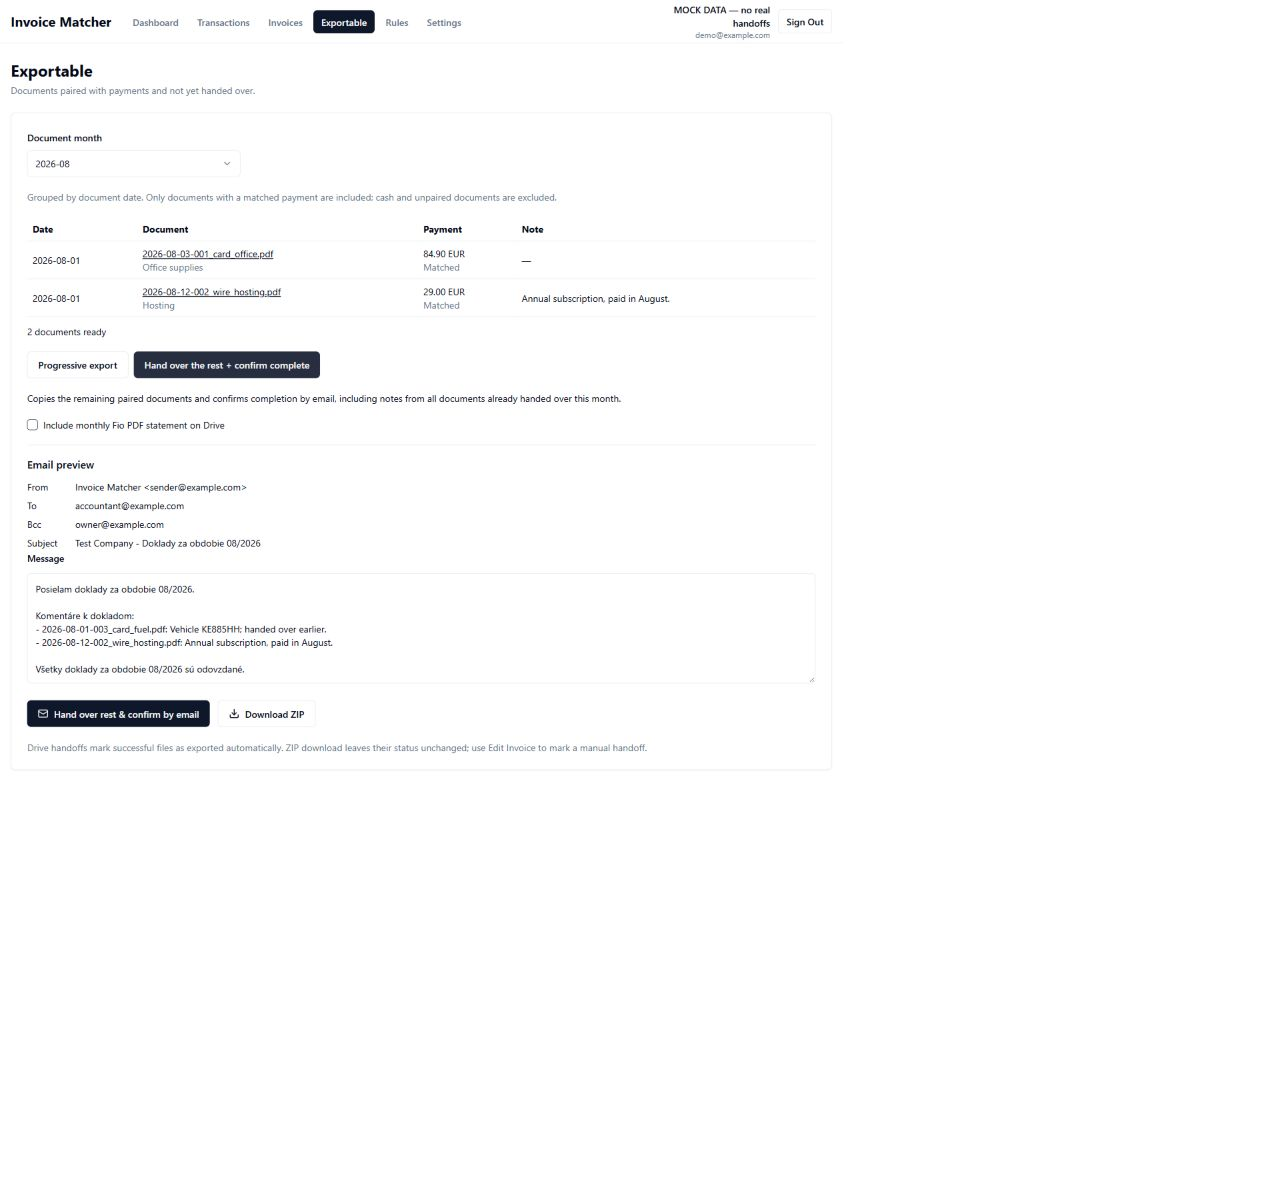
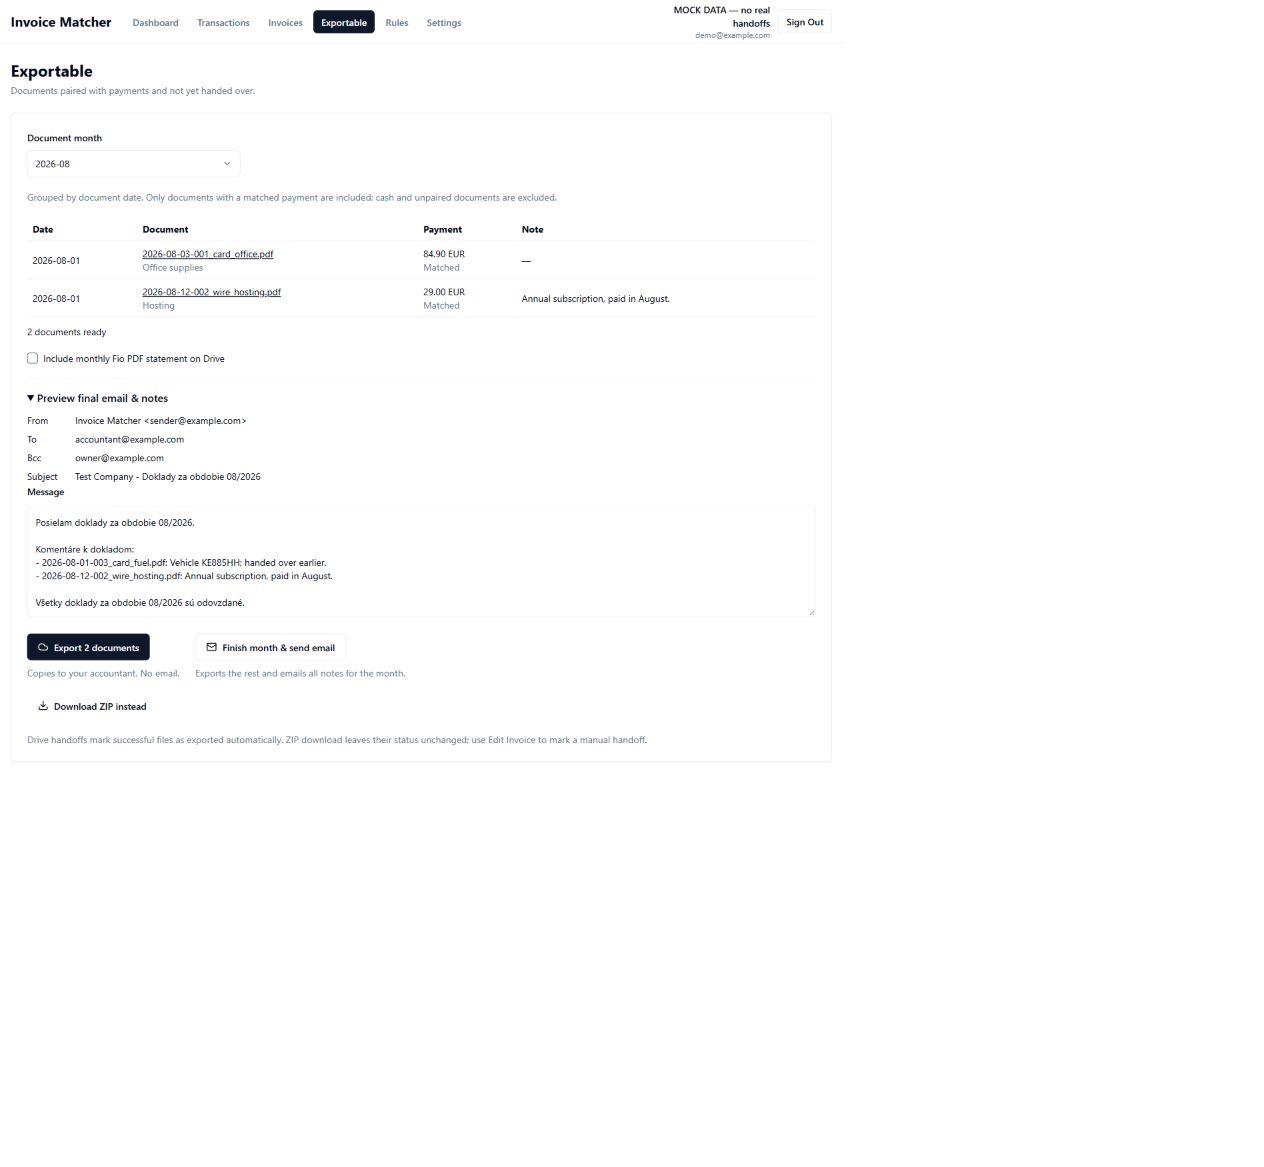
Replace export modes with two direct handoff actions

diff --git a/frontend/src/pages/ExportPage.tsx b/frontend/src/pages/ExportPage.tsx
@@ -24,13 +24,12 @@ export function ExportPage() {
   const { data: appConfig } = useAppConfig()
   const copy = useCopyToGDrive()
   const [month, setMonth] = useState(new URLSearchParams(search).get('month') || '')
-  const [complete, setComplete] = useState(false)
   const [acknowledged, setAcknowledged] = useState(false)
   const [includeStatement, setIncludeStatement] = useState(false)
   const [downloading, setDownloading] = useState(false)
   const [emailBody, setEmailBody] = useState('')
   const { data: documents, isLoading, isError } = useInvoices(month || undefined, 'exportable')
-  const { data: preview, isFetching: previewLoading, isError: previewError } = useAccountantEmailPreview(month || null, complete)
+  const { data: preview, isFetching: previewLoading, isError: previewError } = useAccountantEmailPreview(month || null, true)
   const { data: sender } = useMailjetSenderStatus(settings?.mailjet_sender_email || '', Boolean(appConfig?.mailjet_enabled))
   const busy = copy.isPending || downloading
   const ready = documents?.invoices.filter((invoice) => !invoice.parent_invoice_id) || []
@@ -39,8 +38,8 @@ export function ExportPage() {
 
   useEffect(() => {
     setEmailBody(preview?.body || '')
-  }, [preview?.body, month, complete])
-  useEffect(() => { setAcknowledged(false) }, [month, complete, unresolved])
+  }, [preview?.body, month])
+  useEffect(() => { setAcknowledged(false) }, [month, unresolved])
 
   const refresh = () => {
     for (const key of ['invoices', 'dashboard', 'month-stats', 'accountant-email-preview']) {
@@ -57,15 +56,15 @@ export function ExportPage() {
     throw new Error('Configure your Fio token in Settings to include the monthly statement')
   }
 
-  const handleCopy = async () => {
-    if (!month || !settings?.accountant_folder_id || !preview) return
+  const handleCopy = async (complete: boolean) => {
+    if (!month || !settings?.accountant_folder_id || (complete && !preview)) return
     try {
       const result = await copy.mutateAsync({
         yearMonth: month, folderId: settings.accountant_folder_id, markExported: true,
         includeMonthlyStatement: includeStatement,
         fioToken: includeStatement ? await resolveFioToken() : undefined,
-        sendSummaryEmail: preview.will_send_email,
-        emailBody: preview.will_send_email ? emailBody : undefined,
+        sendSummaryEmail: complete,
+        emailBody: complete ? emailBody : undefined,
         completeMonth: complete, acknowledgeUnmatched: acknowledged,
       })
       const summary = `${result.copied} copied, ${result.skipped} already on Drive.`
@@ -129,19 +128,14 @@ export function ExportPage() {
           </div>
         ) : <p className="text-sm text-muted-foreground">No paired documents waiting for export. Match payments to documents in <Link className="underline" href="/transactions">Transactions</Link>, or select another month.</p>}
         {month && <>
-          <div className="flex flex-wrap gap-2" aria-label="Handoff mode">
-            <Button variant={complete ? 'outline' : 'default'} disabled={busy} aria-pressed={!complete} onClick={() => setComplete(false)}>Progressive export</Button>
-            <Button variant={complete ? 'default' : 'outline'} disabled={busy} aria-pressed={complete} onClick={() => setComplete(true)}>Hand over the rest + confirm complete</Button>
-          </div>
-          <p className="text-sm">{complete ? 'Copies the remaining paired documents and confirms completion by email, including notes from all documents already handed over this month.' : 'Copies ready documents. No email is sent. All notes are summarized in the final email.'}</p>
-          {complete && unresolved > 0 && <div className="space-y-3 rounded-md border p-4">
+          {unresolved > 0 && <div className="space-y-3 rounded-md border p-4">
             <p role="alert" className="text-sm">{unresolved} expense payments in this payment month still have no document. <Link className="underline" href={`/transactions?month=${month}&status=unmatched&type=expense`}>Review payments</Link>.</p>
             <div className="flex items-start gap-2"><Checkbox id="ack-unmatched" checked={acknowledged} disabled={busy} onCheckedChange={(value) => setAcknowledged(value === true)} /><Label htmlFor="ack-unmatched" className="text-sm font-normal">I reviewed these payments and confirm the handoff is complete.</Label></div>
           </div>}
           <div className="flex items-center gap-2"><Checkbox id="include-statement" checked={includeStatement} disabled={busy} onCheckedChange={(value) => setIncludeStatement(value === true)} /><Label htmlFor="include-statement" className="text-sm font-normal">Include monthly Fio PDF statement on Drive</Label></div>
           {previewLoading ? <p role="status" className="text-sm">Preparing handoff…</p> : previewError ? <p role="alert" className="text-destructive">Could not prepare the handoff. Try again.</p> : preview && <>
-            {preview.will_send_email && <section className="space-y-3 border-t pt-4" aria-labelledby="email-title">
-              <h2 id="email-title" className="font-medium">Email preview</h2>
+            {preview.will_send_email && <details className="space-y-3 border-t pt-4">
+              <summary className="cursor-pointer font-medium">Preview final email & notes</summary>
               <dl className="grid gap-2 text-sm sm:grid-cols-[4rem_1fr]">
                 <dt>From</dt><dd className="break-all">{preview.sender_name} &lt;{preview.sender_email || 'not configured'}&gt;</dd>
                 <dt>To</dt><dd className="break-all">{preview.to || 'not configured'}</dd>
@@ -151,16 +145,25 @@ export function ExportPage() {
               <Label htmlFor="email-body">Message</Label>
               <textarea id="email-body" className="w-full rounded-md border bg-background p-3 text-sm" rows={7} maxLength={10000} value={emailBody} disabled={busy} onChange={(event) => setEmailBody(event.target.value)} />
               {!emailReady && <p className="text-sm text-destructive">Configure the company, accountant email and active Mailjet sender in Settings before sending this email.</p>}
-            </section>}
+            </details>}
           </>}
           {(!gdrive?.authenticated || !settings?.accountant_folder_id) && <p className="text-sm text-destructive">Connect Google Drive and select the accountant folder in Settings.</p>}
-          <div className="flex flex-wrap gap-3">
-            <Button onClick={handleCopy} disabled={busy || isLoading || isError || previewLoading || previewError || !preview || !gdrive?.authenticated || !settings?.accountant_folder_id || (!complete && !ready.length) || (preview.will_send_email && (!emailReady || !emailBody.trim())) || (complete && unresolved > 0 && !acknowledged)}>
-              {copy.isPending ? <Loader2 className="mr-2 h-4 w-4 animate-spin" /> : complete ? <Mail className="mr-2 h-4 w-4" /> : <Cloud className="mr-2 h-4 w-4" />}
-              {complete ? 'Hand over rest & confirm by email' : 'Copy to accountant'}
-            </Button>
-            <Button variant="outline" onClick={handleDownload} disabled={busy || isLoading || isError || !ready.length}><Download className="mr-2 h-4 w-4" />Download ZIP</Button>
+          <div className="flex flex-col gap-4 sm:flex-row sm:flex-wrap sm:gap-6">
+            <div className="space-y-2">
+              <Button onClick={() => handleCopy(false)} disabled={busy || isLoading || isError || !gdrive?.authenticated || !settings?.accountant_folder_id || !ready.length}>
+                {copy.isPending ? <Loader2 className="mr-2 h-4 w-4 animate-spin" /> : <Cloud className="mr-2 h-4 w-4" />}
+                Export {ready.length} {ready.length === 1 ? 'document' : 'documents'}
+              </Button>
+              <p className="text-sm text-muted-foreground">Copies to your accountant. No email.</p>
+            </div>
+            <div className="space-y-2">
+              <Button variant="outline" onClick={() => handleCopy(true)} disabled={busy || isLoading || isError || previewLoading || previewError || !preview || !gdrive?.authenticated || !settings?.accountant_folder_id || !emailReady || !emailBody.trim() || (unresolved > 0 && !acknowledged)}>
+                <Mail className="mr-2 h-4 w-4" />Finish month & send email
+              </Button>
+              <p className="text-sm text-muted-foreground">Exports the rest and emails all notes for the month.</p>
+            </div>
           </div>
+          <Button variant="ghost" onClick={handleDownload} disabled={busy || isLoading || isError || !ready.length}><Download className="mr-2 h-4 w-4" />Download ZIP instead</Button>
           <p className="text-sm text-muted-foreground">Drive handoffs mark successful files as exported automatically. ZIP download leaves their status unchanged; use Edit Invoice to mark a manual handoff.</p>
         </>}
       </CardContent></Card>

diff --git a/docs/mocks/README.md b/docs/mocks/README.md
@@ -4,7 +4,7 @@ These screenshots use fictional data in the actual frontend. Drive and Mailjet a
 
 ## Progressive export
 
-Only paired, unexported documents appear. Copying sends no email.
+Only paired, unexported documents appear. **Export N documents** immediately copies them without email. **Finish month & send email** directly exports the remainder and sends the completion email. There is no mode selector.
 
 ![Exportable](exportable.png)
 
@@ -16,7 +16,7 @@ Edit Invoice can mark a manual handoff without sending files or email.
 
 ## Final handoff
 
-The final email includes notes from the remaining documents and documents handed over earlier.
+Expand **Preview final email & notes** to review the message before finishing. The final email includes notes from the remaining documents and documents handed over earlier.
 
 ![Completion email](completion-email.png)
 
